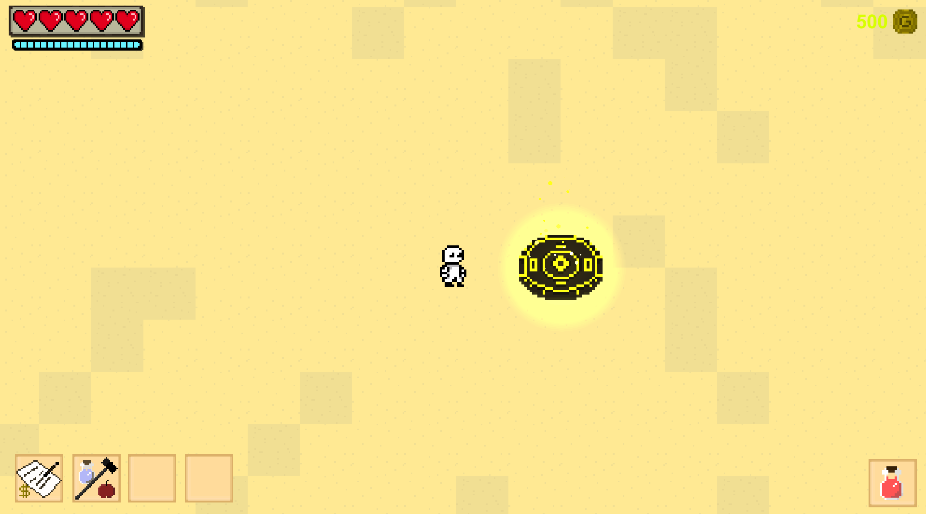
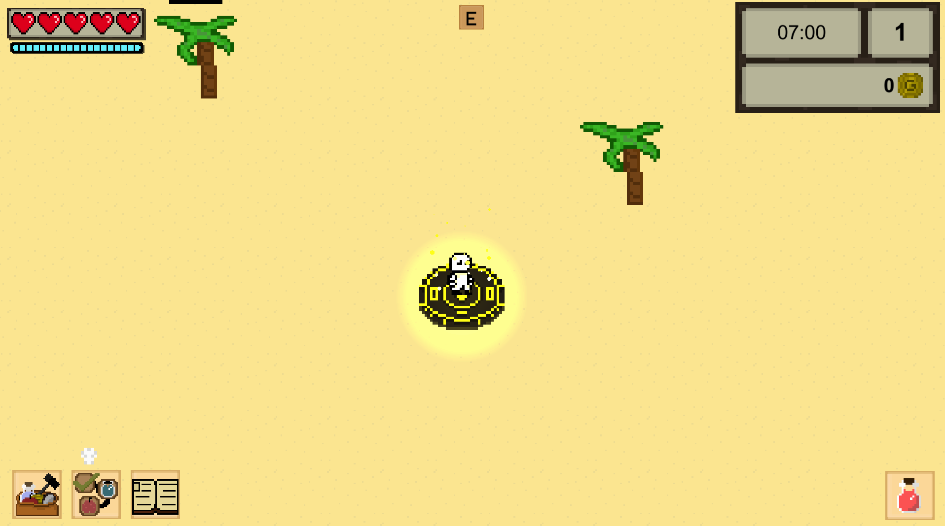
Updated screenshots

diff --git a/fairy_quest.html b/fairy_quest.html
@@ -69,6 +69,16 @@
                             <img src="images/screenshots/fairy_quest/fairyQuest2.png" alt="Screenshot of The Fairy Quest game" />
                         </a>
                     </div>
+                    <div class="imgSlideshow">
+                        <a href="images/screenshots/fairy_quest/fairyQuest3.png" target="_blank">
+                            <img src="images/screenshots/fairy_quest/fairyQuest3.png" alt="Screenshot of The Fairy Quest game" />
+                        </a>
+                    </div>
+                    <div class="imgSlideshow">
+                        <a href="images/screenshots/fairy_quest/fairyQuest4.png" target="_blank">
+                            <img src="images/screenshots/fairy_quest/fairyQuest4.png" alt="Screenshot of The Fairy Quest game" />
+                        </a>
+                    </div>
 
                     <a class="prev" onclick="plusSlides(-1)">&#10094;</a>
                     <a class="next" onclick="plusSlides(1)">&#10095;</a>
